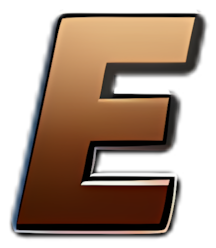
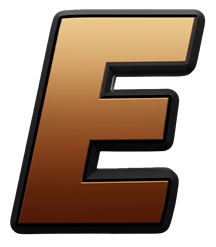
E rank image fix [no-discord]

Changed region(s): [[0.0278, 0.0283, 0.9722, 0.9636]]

diff --git a/public/sw.js b/public/sw.js
@@ -1,5 +1,5 @@
 // Version injected by scripts/set-version.js at build time
-const CACHE_NAME = 'outerpedia-cache-v4.5.11';
+const CACHE_NAME = 'outerpedia-cache-v4.5.12';
 const APP_VERSION = CACHE_NAME.replace('outerpedia-cache-v', '');
 
 // Static assets to pre-cache on install
